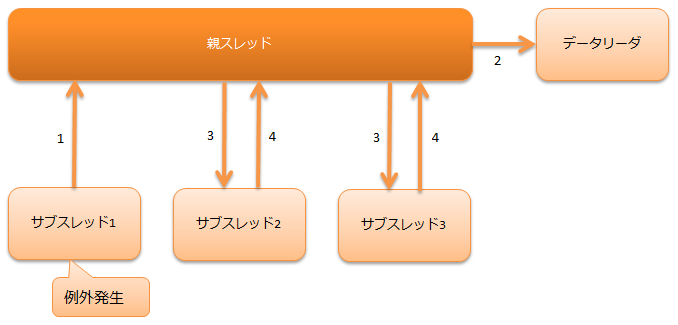
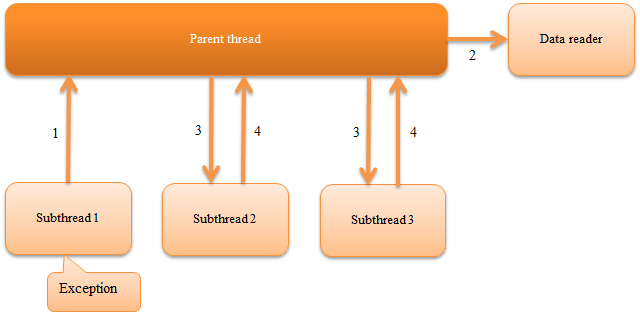
マルチスレッド実行制御ハンドラのページを英語化

diff --git a/en/application_framework/application_framework/handlers/standalone/multi_thread_execution_handler.rst b/en/application_framework/application_framework/handlers/standalone/multi_thread_execution_handler.rst
@@ -1,32 +1,31 @@
 .. _multi_thread_execution_handler:
 
-マルチスレッド実行制御ハンドラ
+Multi-thread Execution Control Handler
 ==================================================
-.. contents:: 目次
+.. contents:: Table of contents
   :depth: 3
   :local:
 
-本ハンドラは、サブスレッドを作成し、ハンドラキュー上の後続ハンドラの処理を各サブスレッド上で並行実行する。
-このハンドラでの処理結果は、各サブスレッドでの実行結果を集約したオブジェクト(:java:extdoc:`MultiStatus <nablarch.fw.Result.MultiStatus>`)となる。
+This handler creates subthreads and parallelly executes the process of subsequent handlers on the handler queue on each subthread. The process result of this handler is an object (:java:extdoc:`MultiStatus <nablarch.fw.Result.MultiStatus>`) with the aggregate of the execution results of each subthread.
 
-本ハンドラでは、以下の処理を行う。
+This handler performs the following process.
 
-* :ref:`サブスレッド起動前のコールバック処理 <multi_thread_execution_handler-callback>`
-* :ref:`サブスレッドの起動 <multi_thread_execution_handler-thread_count>`
-* サブスレッドでの後続ハンドラの実行
-* :ref:`サブスレッドで例外及びエラー発生時のコールバック処理 <multi_thread_execution_handler-callback>`
-* :ref:`サブスレッドでの処理終了後のコールバック処理 <multi_thread_execution_handler-callback>`
+* :ref:`Performs a callback process before starting the subthread <multi_thread_execution_handler-callback>`
+* :ref:`Starts a subthread <multi_thread_execution_handler-thread_count>`
+* Executes subsequent handlers in the subthread
+* :ref:`Performs a callback process when an exception or error occurs in the subthread <multi_thread_execution_handler-callback>`
+* :ref:`Performs a callback process after the process ends in the subthread <multi_thread_execution_handler-callback>`
 
-処理の流れは以下のとおり。
+The process flow is as follows.
 
 .. image:: ../images/MultiThreadExecutionHandler/flow.png
   :scale: 75
   
-ハンドラクラス名
+Handler class name
 --------------------------------------------------
 * :java:extdoc:`nablarch.fw.handler.MultiThreadExecutionHandler`
 
-モジュール一覧
+Module list
 --------------------------------------------------
 .. code-block:: xml
 
@@ -35,64 +34,61 @@
     <artifactId>nablarch-fw-standalone</artifactId>
   </dependency>
 
-制約
+Constraints
 ------------------------------
-特に無し
+None
 
 .. _multi_thread_execution_handler-thread_count:
 
-スレッド数を指定する
+Specify the thread count
 --------------------------------------------------
-本ハンドラはデフォルトでは、後続のサブスレッドを1つだけ起動し、ハンドラを実行する。
+By default, this handler launches only one subsequent subthread and executes the handler.
 
-後続の処理（例えばバッチアクションの処理）を並列化することで、パフォーマンス向上が見込まれる場合には、設定値を変更することで後続のハンドラの処理を多重化出来る。
+If the performance can be improved by parallelizing the subsequent process (for example, batch action process), multiplexing of the subsequent handler processes can be done by changing the configuration value.
 
-以下に例を示す。
+An example is shown below.
 
 .. code-block:: xml
 
   <component class = "nablarch.fw.handler.MultiThreadExecutionHandler">
-    <!-- 後続ハンドラを8多重で実行する -->
+    <!-- Execute the subsequent handler in 8 multiplexes -->
     <property name="concurrentNumber" value="8" />
   </component>
 
 .. important::
 
-  本ハンドラ以降の処理を複数スレッドで実行する場合、後続のハンドラやバッチアクションなどはスレッドセーフな実装となっている必要がある。
-  スレッドセーフとなっている保証のない処理を安易に複数スレッドで実行すると、予期せぬ例外が発生したり、データ不整合の原因となるので注意すること。
+  If the processes after this handler are executed in multiple threads, make sure that the implementation of the subsequent handler or batch action is thread safe. Note that when a process that is not guaranteed to be thread safe is carelessly executed in multiple threads, unexpected exceptions may occur and may cause data inconsistency.
 
 .. _multi_thread_execution_handler-callback:
 
-スレッド起動前後で任意の処理を実行したい
---------------------------------------------------
-このハンドラは、サブスレッド起動前及び終了後にコールバック処理を行う。
+Execute an arbitrary process before and after starting a thread
+---------------------------------------------------------------
+This handler performs a callback process before and after a subthread is activated.
 
-コールバック処理は以下の3つのポイントで実行される。
+The callback process is executed at the following three points.
 
-* サブスレッド起動前
-* サブスレッドで例外発生後の全スレッド終了後
-* 全サブスレッド終了後(サブスレッドで例外が発生した場合でも実行される)
+* Before starting the subthread
+* After the end of all threads following the exception that occurred in the subthread
+* After all subthreads have ended (will be executed even if an exception occurs in the subthread)
 
-コールバックされる処理は、このハンドラより後続に設定されたハンドラの中で、 :java:extdoc:`ExecutionHandlerCallback <nablarch.fw.handler.ExecutionHandlerCallback>` を実装しているものとなる。
-もし、複数のハンドラが  :java:extdoc:`ExecutionHandlerCallback <nablarch.fw.handler.ExecutionHandlerCallback>` を実装している場合は、より手前に設定されているハンドラから順次コールバック処理を実行する。
-
-.. important::
-
-  複数のハンドラがコールバック処理を実装していた場合で、コールバック処理中にエラーや例外が発生した場合は、 残りのハンドラに対するコールバック処理は実行しないため注意すること。
+The process to be called back is the handler that implements  :java:extdoc:`ExecutionHandlerCallback <nablarch.fw.handler.ExecutionHandlerCallback>` among the handlers configured after this handler. If multiple handlers implement  :java:extdoc:`ExecutionHandlerCallback <nablarch.fw.handler.ExecutionHandlerCallback>` , then the callback process is performed sequentially from the handler that has been configured earlier.
 
 .. important::
 
-  コールバック処理で行ったデータベース処理は、親スレッド側のハンドラキューに設定されたデータベース接続とトランザクションが使用される。
-  このため、これらの処理で行った更新処理は本ハンドラ終了後に、親スレッド側に設定された :ref:`transaction_management_handler` で確定(コミット)される。
+  Note that if multiple handlers have implemented the callback process and an error or exception occurs during the callback process, the callback process for the remaining handlers is not performed.
 
-  もし、コールバック処理内で行った処理を即確定する必要がある場合には、親スレッド側に設定されたデータベース接続ではなく、個別のトランザクションを使用して処理を行うこと。
+.. important::
 
-  詳細は、以下を参照。
+  The database process performed in the callback process uses the database connection and transaction configured in the handler queue of the parent thread. Therefore, the update process performed in these processes is confirmed (commit) by the :ref:`transaction_management_handler` configured in the parent thread after this handler ends.
 
-  * :ref:`ユニバーサルDAOで個別トランザクションを使用する <universal_dao-transaction>`
-  * :ref:`データベースアクセス機能で個別トランザクションを使用する <database-new_transaction>`
+  When it is necessary to immediately confirm the process performed in the callback process, use the individual transaction instead of the database connection configured in the parent thread and perform the processing.
 
-以下にコールバック処理の実装例を示す。
+  See below for details.
+
+  * :ref:`Use individual transactions for Universal DAO <universal_dao-transaction>`
+  * :ref:`Use individual transactions for database access function <database-new_transaction>`
+
+An implementation example of the callback process is shown below.
 
 .. code-block:: java
 
@@ -100,60 +96,53 @@
 
     @Override
     public Result handle(Object input, ExecutionContext context) {
-      // ハンドラの処理を実装する。
+      // Implement handler process.
       return context.handleNext(input);
     }
 
     @Override
     public void preExecution(Object input, ExecutionContext context) {
-      // サブスレッド起動前のコールバック処理を実装する
+      // Implement the callback process before the launch of the subthread
     }
 
     @Override
     public void errorInExecution(Throwable error, ExecutionContext context) {
-      // サブスレッドでエラーが発生した場合のコールバック処理を実装する
+      // Implement the callback process in the case of an error in the subthread
     }
 
     @Override
     public void postExecution(Result result, ExecutionContext context) {
-      // サブスレッド終了後のコールバック処理を実装する
-      // サブスレッド側の処理が正常に終了したかどうかは、引数のResultから判定できる。
+      // Implement the callback process after the completion of the subthread
+      // Whether the process of the subthread ended normally can be determined from the result of the argument.
       if (result.isSuccess()) {
-          // サブスレッドが正常終了
+          // Normal termination of subthread
       } else {
-          // サブスレッドが異常終了
+          // Abnormal termination of subthread
       }
     }
   }
 
-データベース接続に関する設定について
+Configuration related to the database connection
 --------------------------------------------------
-親スレッド側の処理でデータベース接続が必要となる場合には、本ハンドラ以前に :ref:`database_connection_management_handler` の設定が必要になる。
-サブスレッド側でデータベースに対するアクセスが必要な場合には、本ハンドラ以降のサブスレッドで実行されるハンドラ構成に :ref:`database_connection_management_handler` の設定が必要となる。
-(親スレッド、サブスレッドともに、データベース接続とセットでトランザクション制御を行うハンドラも必要となる)
+When a database connection is required for the process by the parent thread, :ref:`database_connection_management_handler` must be configured before this handler. When access to the database is necessary by the subthread, :ref:`database_connection_management_handler` must be configured in the handler configuration executed by the subthread after this handler. (Both parent thread and subthread need a handler that performs transaction control with the database connection as a set)
 
-このため、親スレッド及びサブスレッドの両方でデータベースアクセスを行うハンドラ構成の場合、最低でも2つのデータベース接続が使用される。
-サブスレッドが複数となる場合には、スレッド数分のデータベース接続が必要となる。例えば、サブスレッド数が10の場合、合計11個のデータベース接続が必要となる。
+In the case of a handler configuration in which both the parent thread and subthread access the database, at least two database connections are used.
+When there are multiple subthreads, database connection for the thread count is required.For example if there are 10 subthreads , then a total of 11 database connections are required.
 
-サブスレッドでの例外発生時の振る舞い
+Behavior when an exception occurs in a subthread
 --------------------------------------------------
-サブスレッド内で予期せぬ例外が発生した場合は、バッチアプリケーションを異常終了させるために
-:java:extdoc:`ThreadPoolExecutor#shutdownNow()<java.util.concurrent.ThreadPoolExecutor.shutdownNow()>`
-を呼び出して、例外が発生していない他の処理中のサブスレッドを実行中のデータ処理完了後に安全に終了させる。
+When an unexpected exception occurs in a subthread, call :java:extdoc:`ThreadPoolExecutor#shutdownNow()<java.util.concurrent.ThreadPoolExecutor.shutdownNow()>` for the abnormal termination of the batch application, safely end the processing of other subthreads that have not thrown an exception after data under process is completed.
 
-サブスレッド側に :ref:`database_connection_management_handler` 及び :ref:`transaction_management_handler` を設定して
-サブスレッド毎にトランザクション管理する場合に、サブスレッドで例外が発生した場合の親スレッド及びサブスレッドの動作を以下に示す。
+When transaction management is done for each subthread by configuring :ref:`database_connection_management_handler` and :ref:`transaction_management_handler` on the subthread, operation of the parent thread and subthread when an exception occurs in the subthread is shown below.
 
 .. image:: ../images/MultiThreadExecutionHandler/exception_flow.png
   :scale: 75
 
-1. 例外が発生したサブスレッドは処理が中断されロールバックされる。
-2. 親スレッドは各サブスレッドで使用されるデータリーダをクローズする。
-3. 親スレッドは全てのサブスレッドに対し停止要求を行う。
-4. 各サブスレッドは ``2.`` で既にデータリーダがクローズされているため、
-   実行中の処理が終わったタイミングで正常終了する。
+1. Suspension and roll back of the subthread in which the exception occurs.
+2. The parent thread closes the data reader being used by each subthread.
+3. The parent thread sends a stop request to all subthreads.
+4. Since the data reader of each subthread is already closed in  ``2.`` , the subthreads are normally terminated when the process under execution is completed.
 
 .. important::
 
-  :java:extdoc:`InterruptedException<java.lang.InterruptedException>` を捕捉している場合は、
-  割り込み要求により安全に処理できないことを示しているため、例外を送出する等で処理を異常終了させること。
+  If a :java:extdoc:`InterruptedException<java.lang.InterruptedException>` exception is caught, it indicates that the process cannot be performed securely due to an interrupt request. In this case, the process is aborted by throwing an exception.
